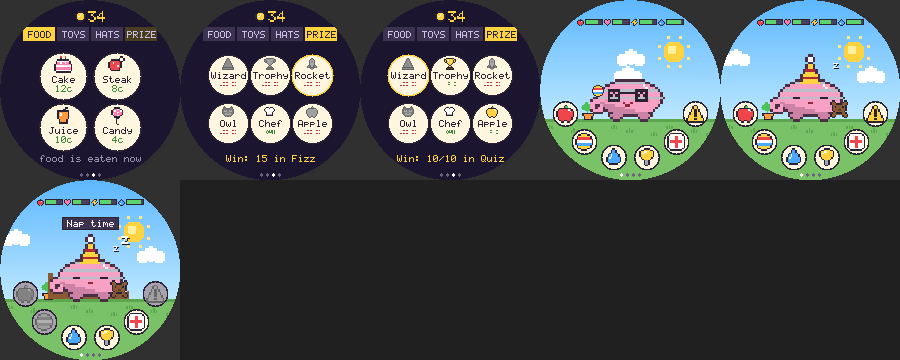
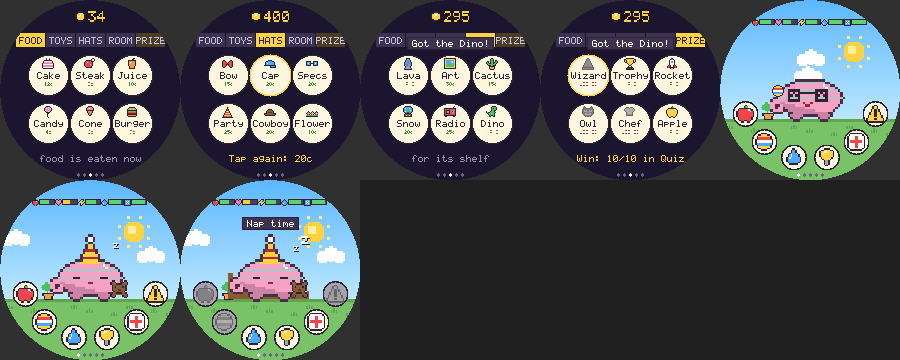
Shop: five tabs of six (new ROOM tab), with ice cream, burger, rubber duck, night light, cowboy hat, flower crown and six room things

diff --git a/components/orbling/pet_engine.cpp b/components/orbling/pet_engine.cpp
@@ -56,11 +56,26 @@ static const ShopItem SHOP[IT_COUNT] = {
     {"Teapot", 14, art::TEAPOT, 12},     {"Donut", 5, art::DONUT, 12},       {"Pizza", 7, art::PIZZA, 12},
     {"Helmet", 20, art::SPACE_HELMET, 12}, {"Alien", 15, art::ALIEN_BAND, 12}, {"Scope", 20, art::TELESCOPE, 12},
     {"Planet", 16, art::PLANET, 12},     {"Cookie", 5, art::STAR_COOKIE, 12}, {"Astro", 6, art::ASTRO, 12},
+    // the shop's second row: food, toys, hats, and the ROOM tab
+    {"Cone", 6, art::ICE_CREAM, 12},     {"Burger", 9, art::BURGER, 12},
+    {"Duck", 25, art::DUCK, 12},         {"Light", 30, art::NIGHT_LIGHT, 12},
+    {"Cowboy", 20, art::COWBOY_HAT, 12}, {"Flower", 18, art::FLOWER_CROWN, 12},
+    {"Lava", 22, art::LAVA_LAMP, 12},    {"Art", 30, art::PAINTING, 12},       {"Cactus", 15, art::CACTUS, 12},
+    {"Snow", 20, art::SNOW_GLOBE, 12},   {"Radio", 25, art::RADIO, 12},        {"Dino", 18, art::DINO, 12},
 };
 // The prize stand page for each math game, in GameKind order from GAME_QUIZ.
 static const char *const STAND_TITLE[STAND_PAGES] = {"CLASSROOM", "GADGETS", "OCEAN", "BAKERY", "SPACE"};
 static const uint32_t STAND_BOARD[STAND_PAGES] = {0x234536, 0x2E2350, 0x1E3A5A, 0x4A2E22, 0x14183A};
-static const char *const SHOP_TABS[4] = {"FOOD", "TOYS", "HATS", "PRIZE"};
+static const int SHOP_TAB_COUNT = 5, SHOP_PRIZE_TAB = 4;
+static const char *const SHOP_TABS[SHOP_TAB_COUNT] = {"FOOD", "TOYS", "HATS", "ROOM", "PRIZE"};
+// Six things on each tab.
+static const uint8_t SHOP_TAB_ITEMS[SHOP_TAB_COUNT][6] = {
+    {IT_CAKE, IT_STEAK, IT_JUICE, IT_CANDY, IT_ICE_CREAM, IT_BURGER},
+    {IT_BALL, IT_TEDDY, IT_PLANT, IT_BED, IT_DUCK, IT_NIGHT_LIGHT},
+    {IT_BOW, IT_CAP, IT_GLASSES, IT_PARTY_HAT, IT_COWBOY_HAT, IT_FLOWER_CROWN},
+    {IT_LAVA_LAMP, IT_PAINTING, IT_CACTUS, IT_SNOW_GLOBE, IT_RADIO, IT_DINO},
+    {IT_WIZARD_HAT, IT_TROPHY, IT_ROCKET, IT_OWL, IT_CHEF_HAT, IT_GOLD_APPLE},
+};
 // How each prize is won (shown on the PRIZE tab).
 static const char *const PRIZE_HOW[PRIZE_COUNT] = {"10/10 in Quiz", "20 in Facts", "15 in Fizz",
                                                    "Smarts 60",     "15 in Munch", "25 in Munch"};
@@ -666,6 +681,7 @@ void PetEngine::hatch_new_egg(uint32_t seed, bool inherit) {
   s_.owned = old.owned;
   s_.owned2 = old.owned2;
   s_.owned3 = old.owned3;
+  s_.owned4 = old.owned4;
   s_.chant_medals = old.chant_medals;
   s_.best_chant = old.best_chant;
   s_.coins = first ? 20 : old.coins;
@@ -920,6 +936,7 @@ void PetEngine::tick_minute(int mod, bool active) {
     // Mornings it gets up once rested; a daytime nap lasts until the bolt is nearly full.
     s_.asleep = 0;
     s_.lights_on = 1;
+    if (owns(IT_NIGHT_LIGHT)) add(s_.happy, 20);  // slept well with its night light on
     show_toast("Good morning!", 3000);
   }
 
@@ -2077,6 +2094,7 @@ bool PetEngine::clean_up() {
   clean_poops_ = s_.poops;
   s_.poops = 0;
   s_.clean = 100;
+  if (owns(IT_DUCK)) add(s_.happy, 15);  // bath time with the duck
   set_activity(ACT_CLEAN, 2200);
   dirty_ = true;
   return true;
@@ -3255,6 +3273,14 @@ void PetEngine::food_effect(int id) {
       add(s_.happy, 20);
       add(s_.energy, 10);
       break;
+    case IT_ICE_CREAM:
+      add(s_.happy, 25);
+      add(s_.food, 5);
+      break;
+    case IT_BURGER:
+      add(s_.food, 45);
+      s_.weight = (uint8_t) (s_.weight + 2);
+      break;
     default:  // candy
       add(s_.happy, 10);
       break;
@@ -3318,26 +3344,20 @@ bool PetEngine::buy(int id) {
   return true;
 }
 
-static const int SHOP_TAB_Y = 68, SHOP_ROW1 = 152, SHOP_ROW2 = 254, SHOP_R = 46;
-static int shop_tab_x(int t) { return 78 + t * 68; }
+static const int SHOP_TAB_Y = 80, SHOP_ROW1 = 152, SHOP_ROW2 = 254, SHOP_R = 46;
+static int shop_tab_x(int t) { return 60 + t * 60; }
 // Food, toys and hats: four big circles. Prizes: six smaller ones, three across.
-static int shop_count(int tab) { return tab == 3 ? PRIZE_COUNT : 4; }
-static int shop_item(int tab, int i) { return tab == 3 ? IT_WIZARD_HAT + i : tab * 4 + i; }
-static void shop_slot(int tab, int i, int &x, int &y, int &r) {
-  if (tab == 3) {
-    x = 96 + (i % 3) * 84;
-    y = i / 3 ? 246 : 150;
-    r = 39;
-  } else {
-    x = i % 2 ? 234 : 126;
-    y = i / 2 ? SHOP_ROW2 : SHOP_ROW1;
-    r = SHOP_R;
-  }
+static int shop_count(int) { return 6; }
+static int shop_item(int tab, int i) { return SHOP_TAB_ITEMS[tab][i]; }
+static void shop_slot(int, int i, int &x, int &y, int &r) {  // every tab: three across, two rows
+  x = 96 + (i % 3) * 84;
+  y = i / 3 ? 246 : 150;
+  r = 39;
 }
 
 void PetEngine::shop_tap(int x, int y) {
-  for (int t = 0; t < 4; t++)
-    if (abs(x - shop_tab_x(t)) < 34 && abs(y - SHOP_TAB_Y) < 18) {
+  for (int t = 0; t < SHOP_TAB_COUNT; t++)
+    if (abs(x - shop_tab_x(t)) < 30 && abs(y - SHOP_TAB_Y) < 18) {
       shop_tab_ = (uint8_t) t;
       shop_sel_ = -1;
       return;
@@ -3347,7 +3367,7 @@ void PetEngine::shop_tap(int x, int y) {
     shop_slot(shop_tab_, i, sx, sy, sr);
     if (sq(x - sx) + sq(y - sy) > (sr + 4) * (sr + 4)) continue;
     int id = shop_item(shop_tab_, i);
-    bool kept = id >= IT_BALL;
+    bool kept = !is_food(id);
     if (kept && owns(id)) {  // hats: wear / take off; toys: already there
       buy(id);
     } else if (is_prize(id)) {  // locked: show how to win it
@@ -3374,10 +3394,10 @@ void PetEngine::draw_shop(Canvas &c, uint32_t now) {
   icon(c, art::COIN, 7, 180 - w / 2, 22, 3);
   text(c, 180 - w / 2 + 26, 22, buf, 3, 0xFFD23F, false);
   // tabs
-  for (int t = 0; t < 4; t++) {
+  for (int t = 0; t < SHOP_TAB_COUNT; t++) {
     int tx = shop_tab_x(t);
     bool on = t == shop_tab_;
-    rect(c, tx - 32, SHOP_TAB_Y - 14, 64, 28, on ? 0xFFD23F : (t == 3 ? 0x4A3D20 : 0x3D3350));
+    rect(c, tx - 29, SHOP_TAB_Y - 14, 58, 28, on ? 0xFFD23F : (t == SHOP_PRIZE_TAB ? 0x4A3D20 : 0x3D3350));
     text(c, tx, SHOP_TAB_Y - 7, SHOP_TABS[t], 2, on ? 0x2B2233 : 0xC9C2E8, true, false);
   }
   // items
@@ -3386,7 +3406,7 @@ void PetEngine::draw_shop(Canvas &c, uint32_t now) {
     int id = shop_item(shop_tab_, i), sx, sy, sr;
     shop_slot(shop_tab_, i, sx, sy, sr);
     const ShopItem &it = SHOP[id];
-    bool picked = sel_live && shop_sel_ == id, have = id >= IT_BALL && owns(id), worn = s_.hat == id && have;
+    bool picked = sel_live && shop_sel_ == id, have = !is_food(id) && owns(id), worn = s_.hat == id && have;
     circle(c, sx, sy, sr + 3, picked ? 0xFFD23F : 0x2B2233);
     circle(c, sx, sy, sr, worn ? 0xD8F0C8 : 0xFFF6E0);
     bool locked = is_prize(id) && !have;
@@ -3414,6 +3434,7 @@ void PetEngine::draw_shop(Canvas &c, uint32_t now) {
   const char *hint = shop_tab_ == 0   ? "food is eaten now"
                      : shop_tab_ == 1 ? "toys help it out"
                      : shop_tab_ == 2 ? "tap owned: wear"
+                     : shop_tab_ == 3 ? "for its shelf"
                                       : "win them in math";
   if (sel_live && is_prize(shop_sel_)) {
     snprintf(buf, sizeof(buf), "Win: %s", PRIZE_HOW[shop_sel_ - IT_WIZARD_HAT]);

diff --git a/components/orbling/pet_engine.h b/components/orbling/pet_engine.h
@@ -53,13 +53,19 @@ enum ItemId : uint8_t {
   IT_SNORKEL, IT_SAILOR_HAT, IT_FISHBOWL, IT_SHELL, IT_SODA, IT_SUSHI,                // Fizz: ocean
   IT_BERET, IT_FRUIT_HAT, IT_COOKIE_JAR, IT_TEAPOT, IT_DONUT, IT_PIZZA,               // Munch: bakery
   IT_SPACE_HELMET, IT_ALIEN_BAND, IT_TELESCOPE, IT_PLANET, IT_STAR_COOKIE, IT_ASTRO,  // Share: space
+  IT_STAND_END,
+  // More for the shop (kept ones are bits of SaveData::owned4).
+  IT_ICE_CREAM = IT_STAND_END, IT_BURGER,                                       // food
+  IT_DUCK, IT_NIGHT_LIGHT,                                                      // toys
+  IT_COWBOY_HAT, IT_FLOWER_CROWN,                                               // hats
+  IT_LAVA_LAMP, IT_PAINTING, IT_CACTUS, IT_SNOW_GLOBE, IT_RADIO, IT_DINO,      // the ROOM tab
   IT_COUNT
 };
 static const int PRIZE_COUNT = IT_GOLD_APPLE - IT_WIZARD_HAT + 1;
 static const int STAND_PAGE = 6;   // items on each math game's page of the prize stand
 static const int STAND_PAGES = 5;  // Quiz, Facts, Fizz, Munch, Share
-static_assert(IT_COUNT == IT_PROP_CAP + STAND_PAGE * STAND_PAGES, "stand pages");
-static_assert(IT_COUNT <= 48, "SaveData::owned, owned2 and owned3 hold 48 items");
+static_assert(IT_STAND_END == IT_PROP_CAP + STAND_PAGE * STAND_PAGES, "stand pages");
+static_assert(IT_COUNT <= 64, "SaveData::owned, owned2, owned3 and owned4 hold 64 items");
 // Hats drawn into the pet's sprite (shaped to its head) and hats drawn over it from their shop art.
 inline bool is_sprite_hat(int id) {
   return (id >= IT_BOW && id <= IT_PARTY_HAT) || id == IT_WIZARD_HAT || id == IT_CHEF_HAT || id == IT_PROP_CAP ||
@@ -67,7 +73,8 @@ inline bool is_sprite_hat(int id) {
 }
 inline bool is_overlay_hat(int id) {
   return id == IT_HEADPHONES || id == IT_GOGGLES || id == IT_SNORKEL || id == IT_SAILOR_HAT || id == IT_BERET ||
-         id == IT_FRUIT_HAT || id == IT_SPACE_HELMET || id == IT_ALIEN_BAND;
+         id == IT_FRUIT_HAT || id == IT_SPACE_HELMET || id == IT_ALIEN_BAND || id == IT_COWBOY_HAT ||
+         id == IT_FLOWER_CROWN;
 }
 inline bool is_hat(int id) { return is_sprite_hat(id) || is_overlay_hat(id); }
 inline bool is_treat(int id) {
@@ -75,10 +82,12 @@ inline bool is_treat(int id) {
          id == IT_DONUT || id == IT_PIZZA || id == IT_STAR_COOKIE || id == IT_ASTRO;
 }
 inline bool is_prize(int id) { return id >= IT_WIZARD_HAT && id <= IT_GOLD_APPLE; }  // won, never bought
-inline bool is_stand(int id) { return id >= IT_PROP_CAP && id < IT_COUNT; }          // bought after math games
-inline bool is_food(int id) { return id < IT_BALL || is_treat(id); }               // eaten, not kept
-// Things for the study shelf (on the right of the room).
-inline bool is_decor(int id) { return is_stand(id) && !is_hat(id) && !is_treat(id); }
+inline bool is_stand(int id) { return id >= IT_PROP_CAP && id < IT_STAND_END; }      // bought after math games
+inline bool is_food(int id) { return id < IT_BALL || is_treat(id) || id == IT_ICE_CREAM || id == IT_BURGER; }  // eaten
+// Things for the study shelf (on the right of the room): the stand's room things, the ROOM tab, the duck and light.
+inline bool is_decor(int id) {
+  return (is_stand(id) && !is_hat(id) && !is_treat(id)) || (id >= IT_DUCK && id < IT_COUNT && !is_hat(id));
+}
 
 // Adult forms, decided by how it was raised.
 enum Form : uint8_t { FORM_PLAIN, FORM_ROYAL, FORM_SCRUFFY, FORM_SPORTY, FORM_CHUBBY, FORM_WILD, FORM_BRAINY };
@@ -118,7 +127,8 @@ struct SaveData {
   uint16_t best_chant;    // Chant: most tables finished in one game (v9)
   // The Math need, kept as how much math it is missing (0 = full), so saves from before it start full (v10).
   uint8_t math_need;
-  uint8_t pad7[3];
+  uint8_t pad7;
+  uint16_t owned4;  // owned items 48-63: bit (id - 48) (v10)
 };
 
 enum GameKind : uint8_t {
@@ -235,15 +245,20 @@ class PetEngine {
   int grows_in_min() const;  // time together until the next stage (or the egg); -1 if none
   int coins() const { return s_.coins; }
   bool owns(int item) const {
-    return item < 16 ? (s_.owned >> item) & 1 : item < 32 ? (s_.owned2 >> (item - 16)) & 1 : (s_.owned3 >> (item - 32)) & 1;
+    return item < 16   ? (s_.owned >> item) & 1
+           : item < 32 ? (s_.owned2 >> (item - 16)) & 1
+           : item < 48 ? (s_.owned3 >> (item - 32)) & 1
+                       : (s_.owned4 >> (item - 48)) & 1;
   }
   void give(int item) {
     if (item < 16)
       s_.owned = (uint16_t) (s_.owned | (1u << item));
     else if (item < 32)
       s_.owned2 = (uint16_t) (s_.owned2 | (1u << (item - 16)));
-    else
+    else if (item < 48)
       s_.owned3 = (uint16_t) (s_.owned3 | (1u << (item - 32)));
+    else
+      s_.owned4 = (uint16_t) (s_.owned4 | (1u << (item - 48)));
   }
   // Someone touched it in the last 5 minutes: needs run fast. Otherwise it dozes and they run slow.
   bool is_active(uint32_t now_ms) const;

diff --git a/components/orbling/pet_art.h b/components/orbling/pet_art.h
@@ -135,6 +135,20 @@ static const char *const MIC[12] = {
     ".K.KLLLLK.K.", ".K..KKKK..K.", "..K......K..", "...KKKKKK...", ".....KK.....", "...KKKKKK...",
 };
 
+// --- the shop's second row of things (food, toys, hats and the ROOM tab) ---
+static const char *const ICE_CREAM[12] = {"....KKKK....", "...KPPPPK...", "..KPPWPPPK..", "..KPPPPPPK..", "..KKKKKKKK..", "...KOOOOK...", "...KOBOOK...", "....KOOK....", "....KOBK....", ".....KK.....", "............", "............"};
+static const char *const BURGER[12] = {"............", "...KKKKKK...", "..KOOOOOOK..", ".KOOWOOWOOK.", ".KKKKKKKKKK.", ".KGGGGGGGGK.", ".KRRRRRRRRK.", ".KDDDDDDDDK.", ".KKKKKKKKKK.", ".KOOOOOOOOK.", "..KKKKKKKK..", "............"};
+static const char *const DUCK[12] = {"............", "....KKK.....", "...KYYYK....", "...KYKYKOO..", "...KYYYKOK..", "....KYYK....", "..KKYYYYKKK.", ".KYYYYYYYYK.", ".KYYYYYYYYK.", "..KYYYYYYK..", "...KKKKKK...", "............"};
+static const char *const NIGHT_LIGHT[12] = {"............", "....KKKK....", "...KYYYYK...", "..KYYKKYK...", "..KYYK..K...", "..KYYK......", "..KYYYKK....", "...KYYYYK...", "....KKKK....", "....KSSK....", "...KSSSSK...", "...KKKKKK..."};
+static const char *const COWBOY_HAT[12] = {"............", "............", "............", "....KKKK....", "...KBBBBK...", "..KBBBBBBK..", "..KBDDDDBK..", "KKKBBBBBBKKK", "KBBBBBBBBBBK", ".KKKKKKKKKK.", "............", "............"};
+static const char *const FLOWER_CROWN[12] = {"............", "............", "............", "............", "............", "..K...K...K.", ".KPK.KYK.KPK", "KPYPKYOYKPYP", ".KPK.KYK.KPK", "GGGGGGGGGGGG", "KKKKKKKKKKKK", "............"};
+static const char *const LAVA_LAMP[12] = {"....KKKK....", "....KSSK....", "...KLLLLK...", "...KLRRLK...", "..KLLRRLLK..", "..KLLLLRLK..", "..KLRRLLLK..", "..KLRRLLLK..", "...KLLLLK...", "...KSSSSK...", "..KSSSSSSK..", "..KKKKKKKK.."};
+static const char *const PAINTING[12] = {"KKKKKKKKKKKK", "KYYYYYYYYYYK", "KYLLLLLLLLYK", "KYLLLLLYYLYK", "KYLLLLLYYLYK", "KYLLGLLLLLYK", "KYLGGGLLGLYK", "KYGGGGGGGGYK", "KYGGGGGGGGYK", "KYYYYYYYYYYK", "KKKKKKKKKKKK", "............"};
+static const char *const CACTUS[12] = {".....KK.....", "....KGGK....", "....KGGK.KK.", ".KK.KGGK.KGK", "KGK.KGGKKGGK", "KGGKKGGKGGK.", ".KGGGGGGGK..", "..KKKGGKKK..", "...KKKKKK...", "...KOOOOK...", "...KOOOOK...", "....KKKK...."};
+static const char *const SNOW_GLOBE[12] = {"...KKKKKK...", "..KLLLLLLK..", ".KLWLLLWLLK.", ".KLLLGLLLLK.", ".KLLGGGLWLK.", ".KLWGGGGLLK.", "..KLLDDLLK..", "...KKKKKK...", "..KBBBBBBK..", "..KBYBBYBK..", "..KKKKKKKK..", "............"};
+static const char *const RADIO[12] = {"..........K.", ".........K..", "KKKKKKKKKKKK", "KRRRRRRRRRRK", "KRKKKKRRSSRK", "KRKSSKRSKSRK", "KRKSSKRRSSRK", "KRKKKKRRRRRK", "KRRRRRRRRRRK", "KKKKKKKKKKKK", ".KK......KK.", "............"};
+static const char *const DINO[12] = {"......KKKK..", ".....KGGGGK.", ".....KGKGGK.", ".....KGGGGK.", ".....KGGKK..", "K...KGGGK...", "KGKKGGGGGK..", ".KGGGGGGK...", "..KGGGGGK...", "...KGKKGK...", "...KK..KK...", "............"};
+
 // --- math prizes and smarts ---
 static const char *const MINI_MATH[7] = {"KKKKKKK", "KLLLLLK", "KLWLWLK", "KLLWLLK", "KLWLWLK", "KLLLLLK", "KKKKKKK"};
 static const char *const MINI_BOOK[7] = {"KKKKKKK", "KLLKWWK", "KLLKWWK", "KLLKWWK", "KLLKWWK", "KKKKKKK", "......."};

diff --git a/sim/sim.cpp b/sim/sim.cpp
@@ -554,6 +554,7 @@ static void simulate(const char *label, std::vector<Session> sessions, int days,
 }
 
 int main(int argc, char **argv) {
+  setvbuf(stdout, nullptr, _IONBF, 0);  // nothing lost if a check aborts
   if (argc > 1) out_dir = std::string(argv[1]) + "/";
   crc_init();
   PetEngine e;
@@ -669,14 +670,29 @@ int main(int argc, char **argv) {
   e.touch_up(now);
   e.loop(now);
   shot(e, "16a-shop", now);
-  tap(e, 268, 68, now);   // HATS tab
-  tap(e, 234, 152, now);  // pick the cap
+  e.state().coins = 400;
+  tap(e, 180, 80, now);   // HATS tab
+  tap(e, 180, 150, now);  // pick the cap
   shot(e, "16a2-shop-hats-picked", now);
-  tap(e, 234, 152, now);  // buy it
+  tap(e, 180, 150, now);  // buy it
+  tap(e, 180, 246, now);  // the cowboy hat (fifth: middle of the bottom row): pick, buy
+  tap(e, 180, 246, now);
+  tap(e, 120, 80, now);   // TOYS: the duck
+  tap(e, 180, 246, now);
+  tap(e, 180, 246, now);
+  tap(e, 240, 80, now);   // ROOM: lava lamp and dino
+  tap(e, 96, 150, now);
+  tap(e, 96, 150, now);
+  tap(e, 264, 246, now);
+  tap(e, 264, 246, now);
+  shot(e, "16a25-shop-room", now);
+  printf("shop: cowboy %d duck %d lava %d dino %d, coins left %d\n", e.owns(IT_COWBOY_HAT), e.owns(IT_DUCK),
+         e.owns(IT_LAVA_LAMP), e.owns(IT_DINO), e.coins());
+  if (!e.owns(IT_COWBOY_HAT) || !e.owns(IT_DUCK) || !e.owns(IT_LAVA_LAMP) || !e.owns(IT_DINO)) abort();
   e.state().owned |= 1u << IT_TROPHY;  // as if won
   e.give(IT_GOLD_APPLE);
-  tap(e, 282, 68, now);    // PRIZE tab
-  tap(e, 126, 152, now);   // a locked prize: how to win it
+  tap(e, 300, 80, now);    // PRIZE tab
+  tap(e, 96, 150, now);    // a locked prize: how to win it
   shot(e, "16a3-shop-prizes", now);
   e.touch_down(300, 180, now);  // on to settings
   e.touch_move(120, 185);
@@ -849,7 +865,7 @@ int main(int argc, char **argv) {
   uint32_t t3 = 90000;
   tap(e, 300, 150, t3);
   int hats_shown = 0;
-  for (int id = 0; id < IT_COUNT && hats_shown < 12; id++) {
+  for (int id = 0; id < IT_COUNT && hats_shown < 20; id++) {
     if (!is_hat(id)) continue;
     e.state().hat = (uint8_t) id;
     t3 += 6000;

diff --git a/README.md b/README.md
@@ -76,7 +76,7 @@ Assistant it takes the time and time zone from there. Without Home Assistant it 
 | Tap the gauges at the top | Stats page |
 | Swipe up from the bottom edge | Home: back to the pet from any page, menu or game (a game's points still count) |
 | Swipe left / right | Pet → stats → shop → settings → times tables pages (the times tables are also one swipe right from the pet); tap the stats page to go back |
-| Shop page | Coins at the top; tabs for food, toys and hats; tap an item twice to buy it, tap an owned hat to wear it |
+| Shop page | Coins at the top; tabs for food, toys, hats and room things, six of each; tap an item twice to buy it, tap an owned hat to wear it |
 | Settings page | Sound on/off, brightness (4 levels), **New egg** (hold 2 s; replaces the pet) |
 | Hold anywhere after it is gone | Hatch a new egg |
 
@@ -246,11 +246,16 @@ to the next pet.
 | | Steak | 8 | food +50, weight +1 |
 | | Juice | 10 | energy +40, happiness +5 |
 | | Candy | 4 | happiness +10 |
+| | Ice cream cone | 6 | happiness +25, food +5 |
+| | Burger | 9 | food +45, weight +2 |
 | Toys | Ball | 25 | it bounces it now and then; happiness drops slower |
 | | Teddy | 30 | it cuddles it while it sleeps or dozes; no sadness then |
 | | Plant | 20 | sits by it; cleanliness drops half as fast |
 | | Bed | 40 | it sleeps in it; naps twice as fast |
-| Hats | Bow, Cap, Specs, Party hat | 15–25 | worn on the pet; tap again to take off (a hat hides a crown) |
+| | Rubber duck | 25 | bath time is fun: cleaning up also gives happiness +15 |
+| | Night light | 30 | it sleeps well: happiness +20 when it wakes up in the morning |
+| Hats | Bow, Cap, Specs, Party hat, Cowboy hat, Flower crown | 15–25 | worn on the pet; tap again to take off (a hat hides a crown) |
+| Room | Lava lamp, Painting, Cactus, Snow globe, Radio, Toy dino | 15–30 | for the shelf in its room (with the duck and the night light) |
 
 Food is eaten on the spot (it switches to the pet page to watch).
 
